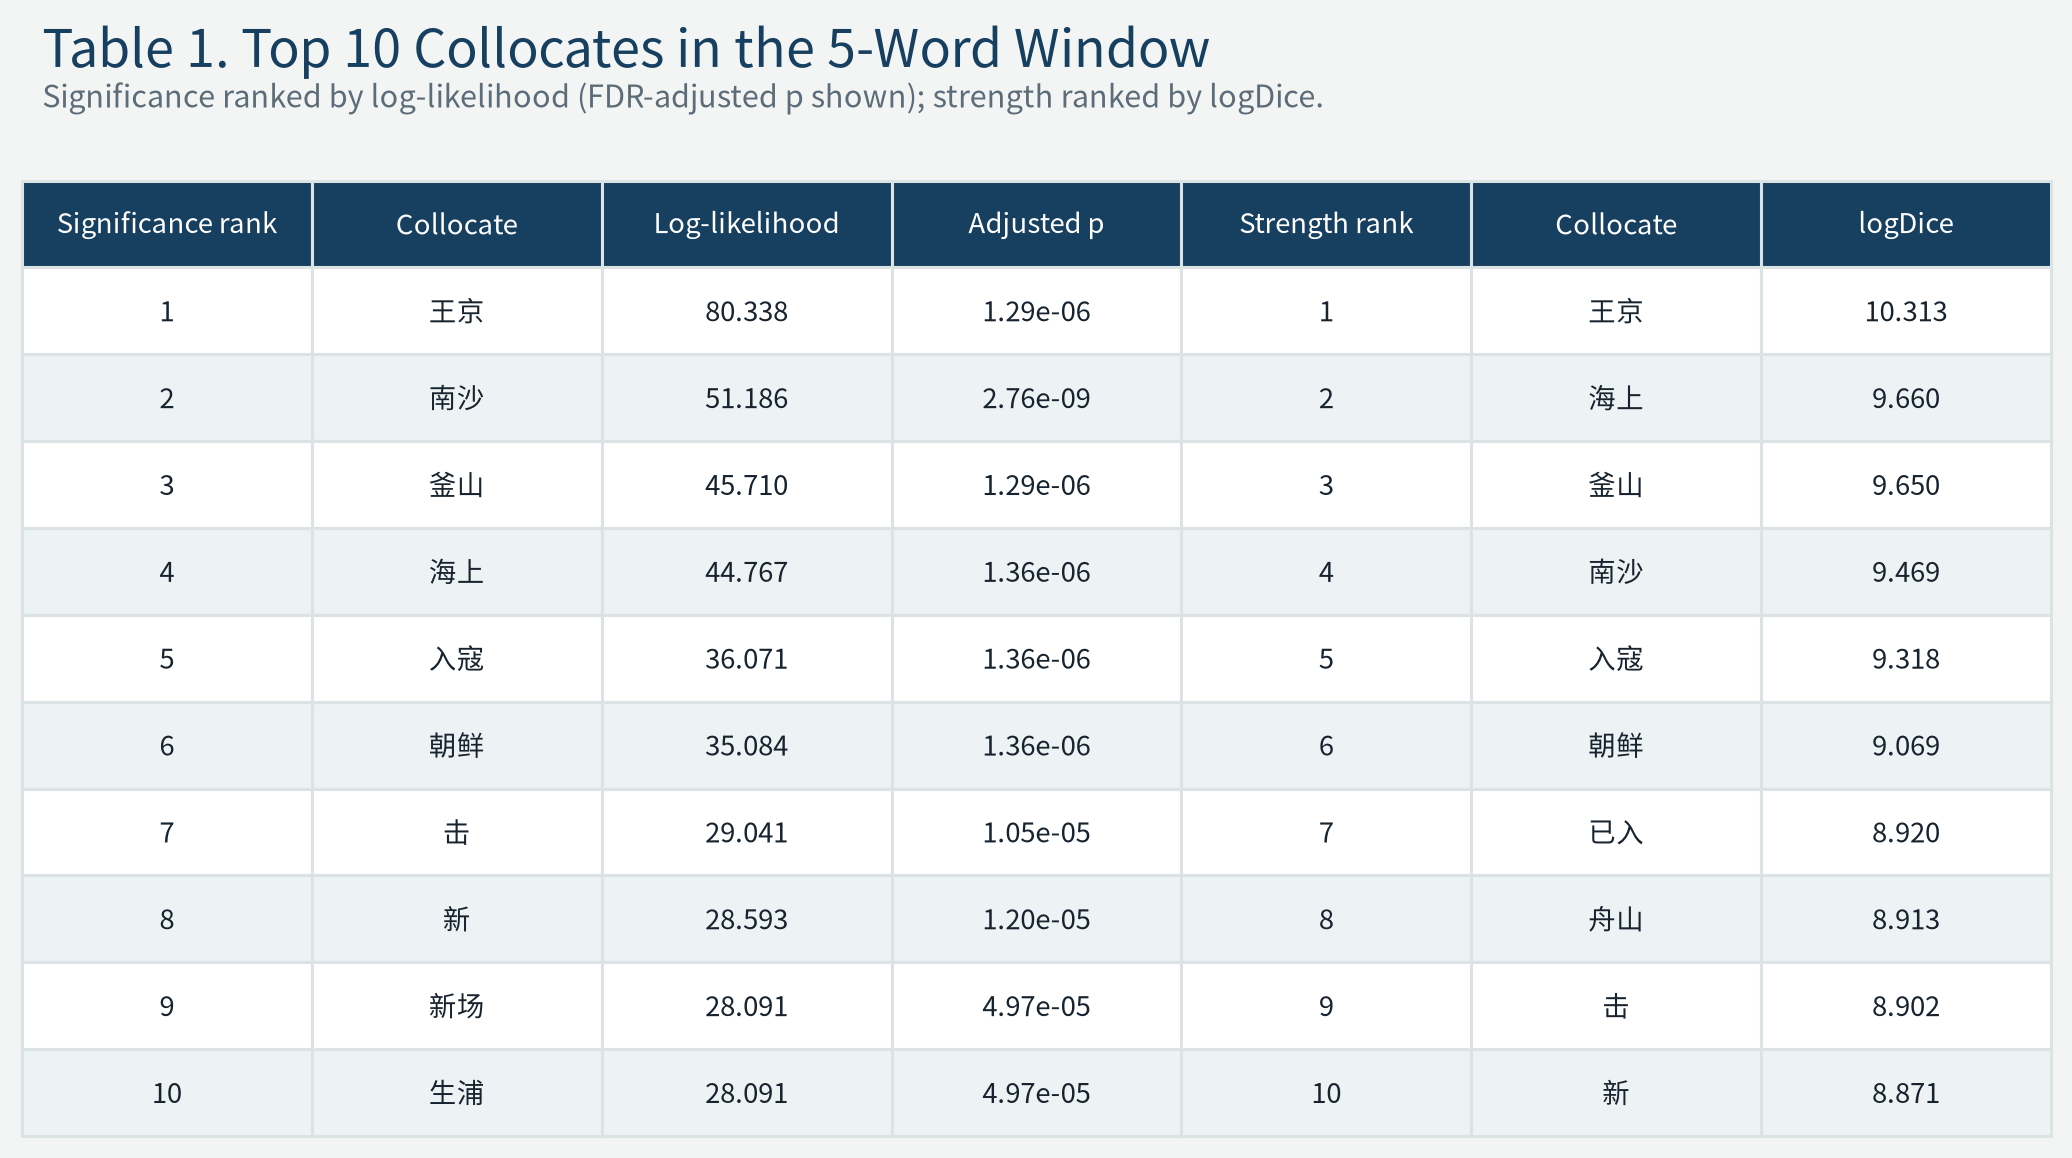
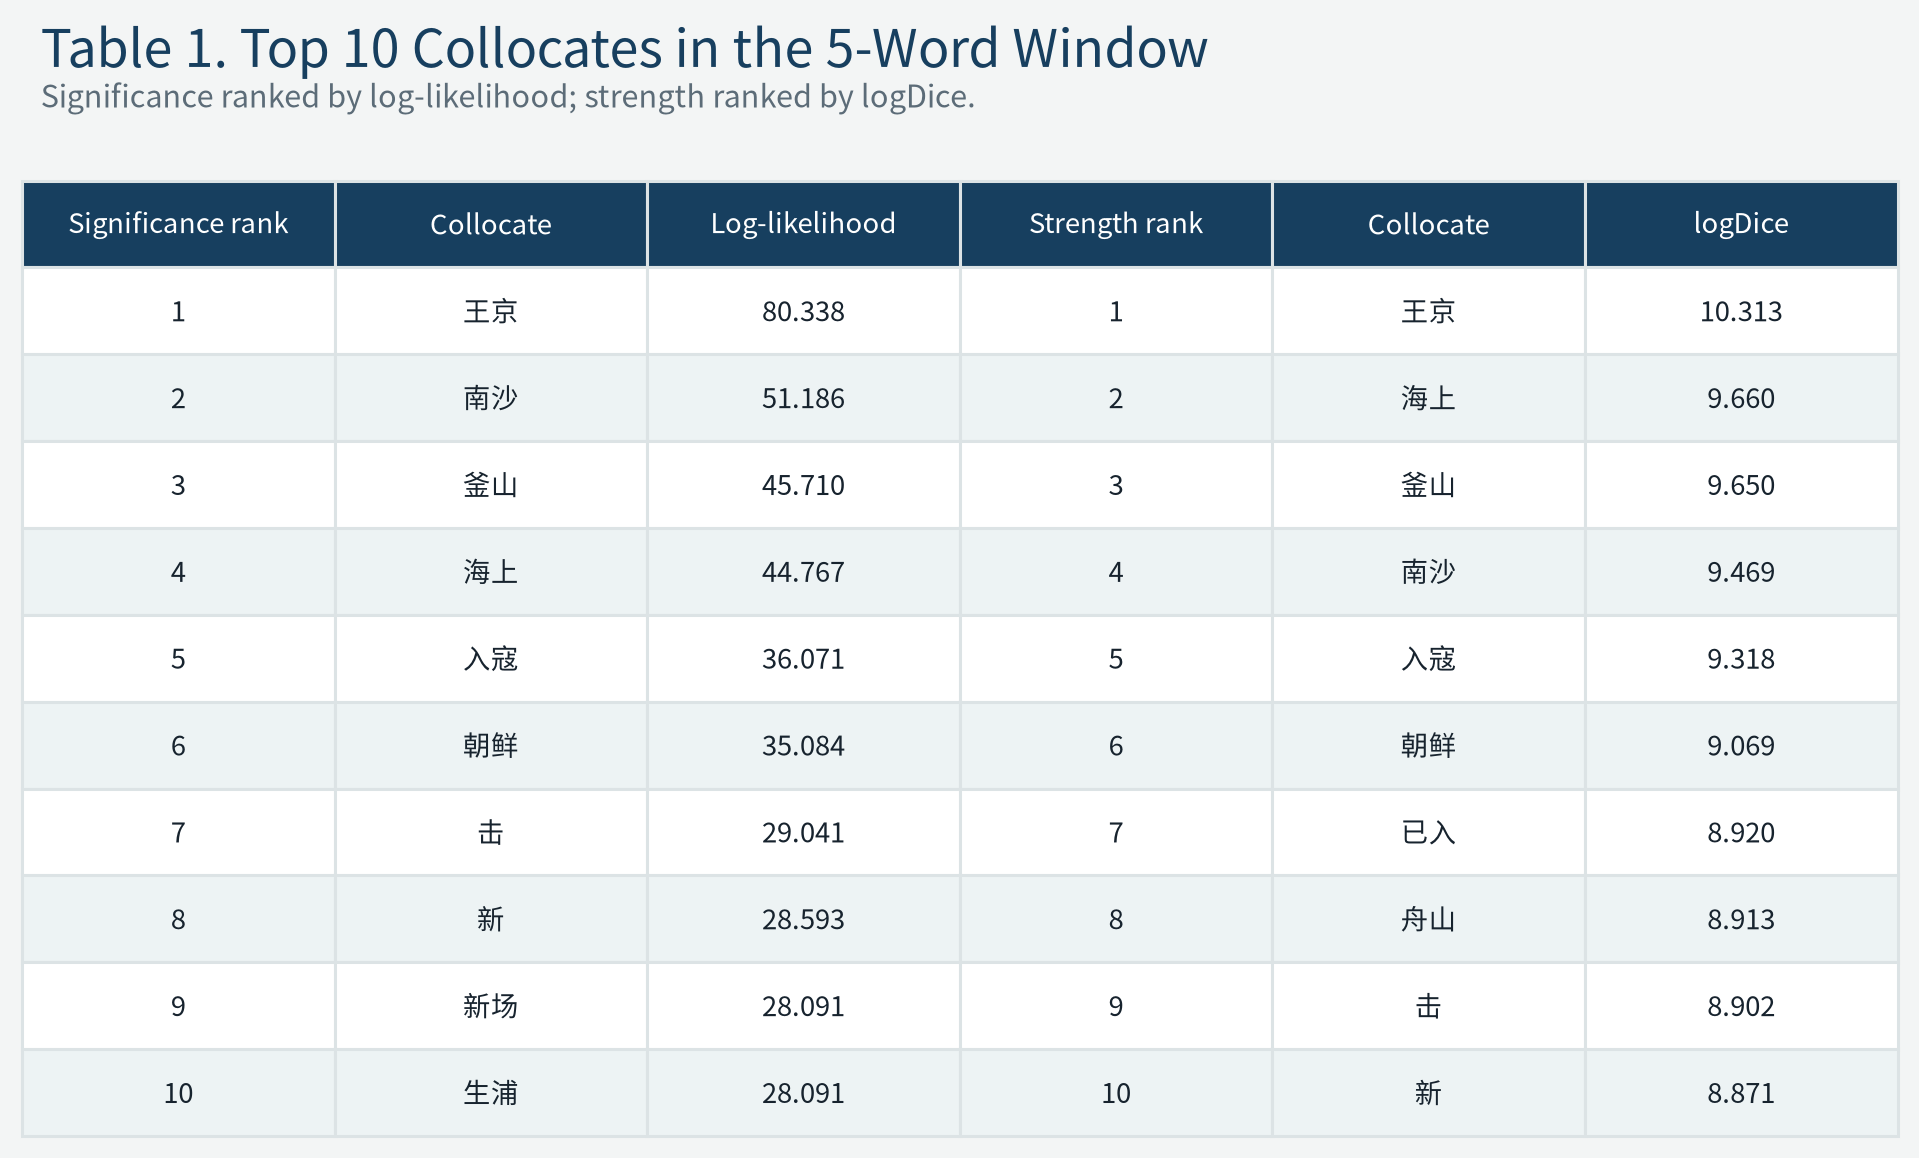
Collocation Analysis

diff --git a/analysis.py b/analysis.py
@@ -325,16 +325,15 @@ def build_collocation_tables(datasets):
             rank + 1 if significant_row is not None else '—',
             significant_row['collocate'] if significant_row is not None else '—',
             f"{significant_row['log_likelihood']:.3f}" if significant_row is not None else '—',
-            f"{significant_row['adjusted_p_value']:.2e}" if significant_row is not None else '—',
             rank + 1 if strength_row is not None else '—',
             strength_row['collocate'] if strength_row is not None else '—',
             f"{strength_row['log_dice']:.3f}" if strength_row is not None else '—',
         ])
     render_table_image(
         'Table 1. Top 10 Collocates in the 5-Word Window',
-        'Significance ranked by log-likelihood (FDR-adjusted p shown); strength ranked by logDice.',
+        'Significance ranked by log-likelihood; strength ranked by logDice.',
         [
-            'Significance rank', 'Collocate', 'Log-likelihood', 'Adjusted p',
+            'Significance rank', 'Collocate', 'Log-likelihood',
             'Strength rank', 'Collocate', 'logDice',
         ],
         comparison,

diff --git a/AI-USE.md b/AI-USE.md
@@ -11,7 +11,7 @@
 3. **Scripting and reports** — combined corpus preparation and analysis into `analysis.py`. The script performs OpenCC t2s conversion; sentence splitting on 。！？； with closing-quote attachment; whitespace and citation-marker stripping; per-line 卷 indexing; jieba tokenization with the custom dictionary; and a ≥5-word filter. It then runs qhchina collocation analyses for 倭 using 5- and 10-token windows and sentence context; removes simplified classical Chinese stopwords; calculates log-likelihood and logDice; includes results with raw p-value <0.05; writes qualifying collocates to three CSV files; and generates `output/results.html`, a standalone interactive five-page English report with sortable result tables. Pages 2–4 show each run's top 20 collocates by logDice; page 5 compares all methods.
    - Console output omits collocates found in all three methods; the three per-method CSV files retain all results with raw p-value <0.05.
 4. **KWIC concordance** — uses `qhchina.analytics.collocations.kwic` to find up to 10 distinct passages for each of 海上, 入寇, 朝鲜, and 新 alongside 倭 in a 5-word context. Each row includes left/node/right context, the complete sentence, and the sentence counts of 倭 and the selected collocate. `output/kwic.html` presents the concordance, and `output/kwic.csv` contains the same passages as structured data. If `data/index.csv` is available, both outputs include 卷 number and title.
-5. **Collocation summary tables** — creates `output/table1_significance_vs_strength_5word.png` with the top 10 5-word collocates separately ranked by log-likelihood and logDice (including FDR-adjusted p-values), plus `output/table2_top_collocates_comparison.png` with the union of each method's top 10 collocates ranked by logDice. Table 2 shows each collocate's exact logDice rank, logDice, and log-likelihood in every method where it occurs, including ranks beyond 10. Both tables use the complete result sets filtered by raw p-value <0.05.
+5. **Collocation summary tables** — creates `output/table1_significance_vs_strength_5word.png` with the top 10 5-word collocates separately ranked by log-likelihood and logDice, plus `output/table2_top_collocates_comparison.png` with the union of each method's top 10 collocates ranked by logDice. Table 2 shows each collocate's exact logDice rank, logDice, and log-likelihood in every method where it occurs, including ranks beyond 10. Both tables use the complete result sets filtered by raw p-value <0.05.
 6. **Reference files** — `requirements.txt`, `data/userdict.txt`, and this declaration.
 
 ## Human decisions and verification
